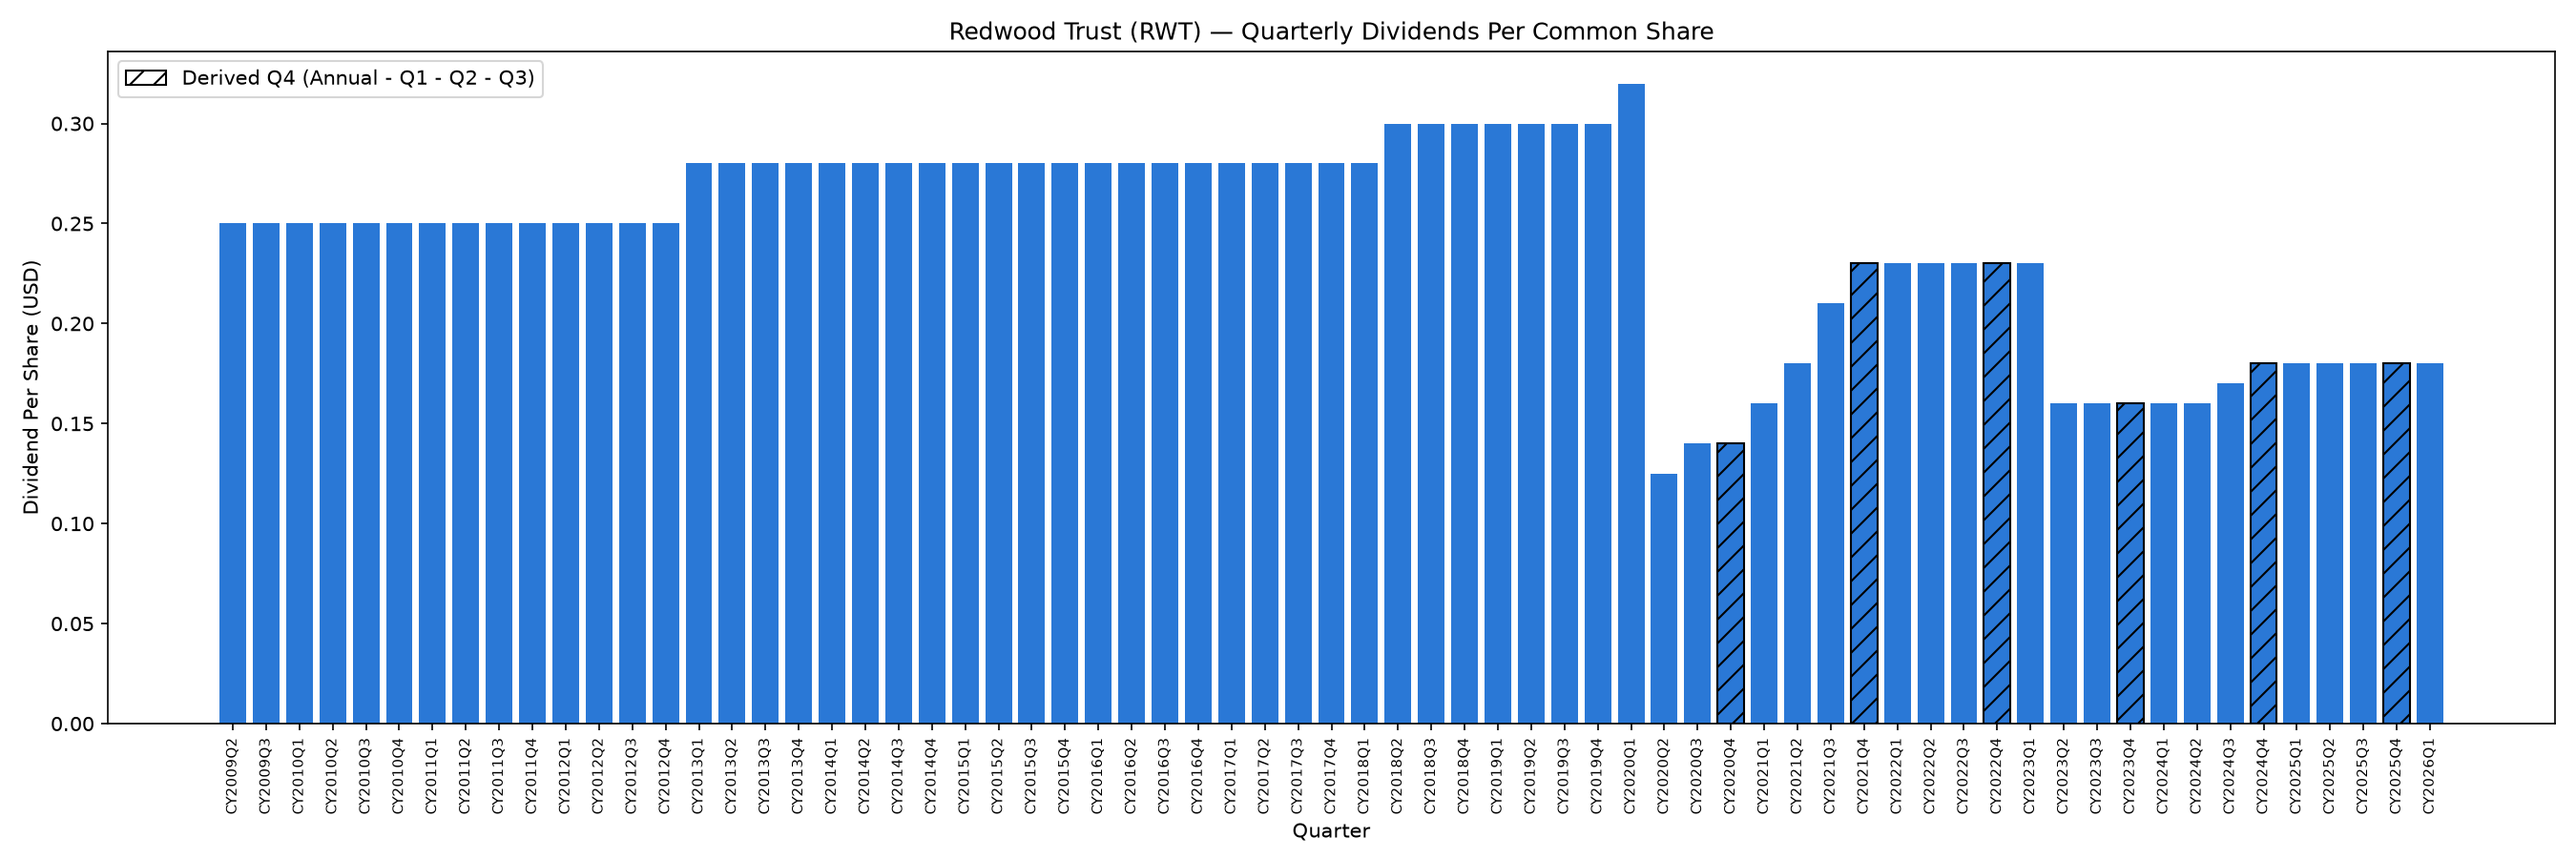
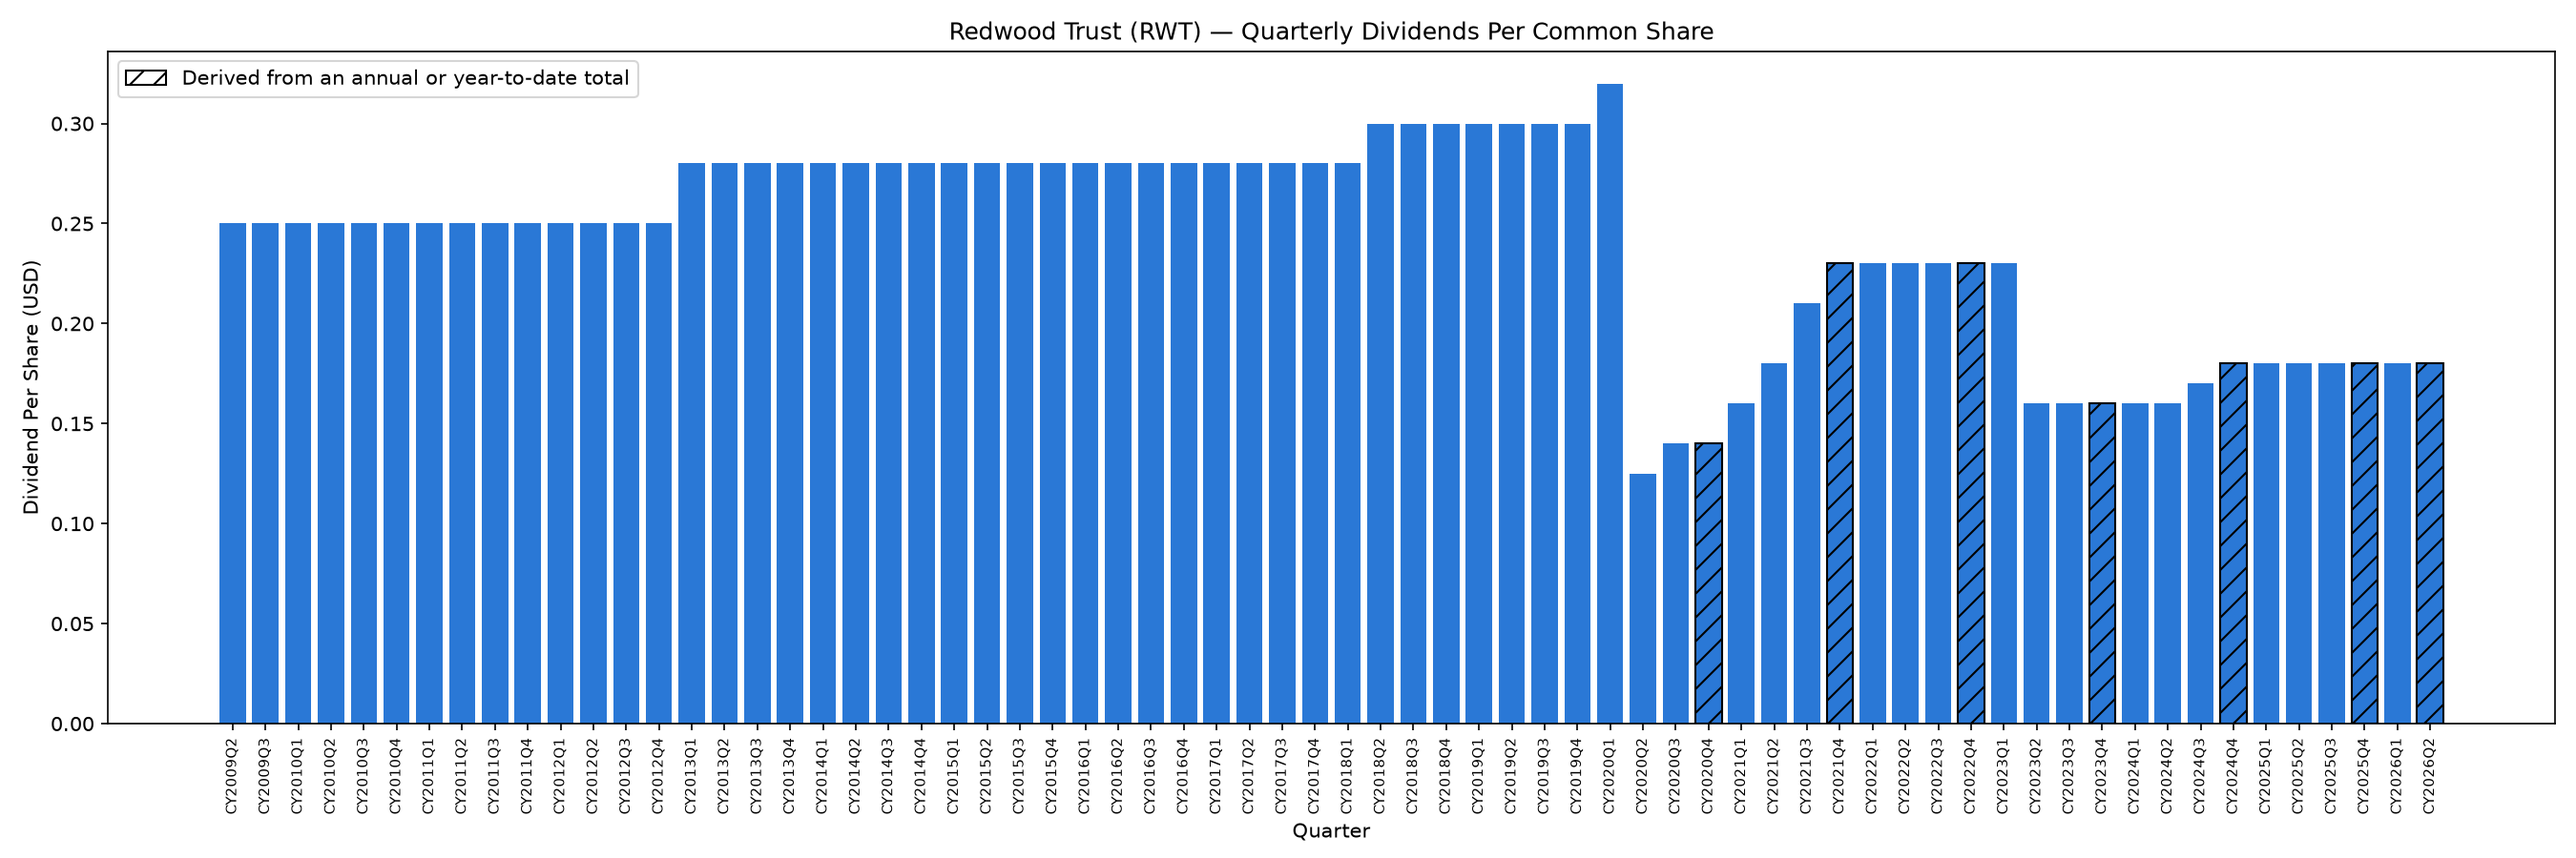
Bring the Q2 dividend to the dashboard and correct its BVPS claim
get_company_facts.py now backs a quarter tagged only as year-to-date out of
the six- or nine-month figure, as the ingest engine does since edbd166, so
the dividend CSV and Exhibit 4 reach CY2026Q2 ($0.18). The dividends fixture
is updated deliberately: its only change is that one added row, tagged as
derived. The chart legend now covers both kinds of derived bar.

The dashboard said book value per share had fallen five quarters straight.
It rose by under a cent in CY2025Q4 ($7.3534 to $7.3571), so it now reads
down in five of the last six quarters.

Adds a "Since the quarter closed" section from filings after the Q2 10-Q:
the Q3 dividend, the 2030 convertible notes and 2027 note buyback, the 9%
holder's Schedule 13D, and the 3 November results date.

Changed region(s): [[0.0933, 0.0933, 0.9644, 0.9644], [0.0933, 0.0622, 0.2489, 0.1244]]

diff --git a/rwt_dashboard_template.html b/rwt_dashboard_template.html
@@ -467,7 +467,7 @@
             <td class="num">$7.12</td>
             <td class="num now neg">$6.90</td>
             <td class="num neg">−3.1%</td>
-            <td class="gloss"><span class="chip watch">Watch</span><br>What each share would be worth if everything were sold and every debt repaid. An all-time low, and the fifth straight quarterly decline.</td>
+            <td class="gloss"><span class="chip watch">Watch</span><br>What each share would be worth if everything were sold and every debt repaid. An all-time low, and down in five of the last six quarters. The one rise, in Q4 2025, was less than a cent.</td>
           </tr>
           <tr>
             <td class="kpi-name">Net interest income</td>
@@ -493,9 +493,9 @@
           <tr>
             <td class="kpi-name">Dividend / share</td>
             <td class="num">$0.18</td>
-            <td class="num now">n/a</td>
-            <td class="num">—</td>
-            <td class="gloss"><span class="chip steady">Not yet framed</span><br>Held flat at $0.18 for the last several quarters. The SEC has not yet tagged a standalone Q2 value, so none can be derived.</td>
+            <td class="num now">$0.18</td>
+            <td class="num">0.0%</td>
+            <td class="gloss"><span class="chip steady">Held</span><br>Cash paid per share. The Q2 10-Q tagged only the six-month total ($0.36), so Q2 is that less Q1. The September 8-K confirms it: Q3 was declared at $0.18, "unchanged from the second quarter".</td>
           </tr>
           <tr>
             <td class="kpi-name">Total assets</td>
@@ -538,6 +538,49 @@
             <td class="num now">$11.0M</td>
             <td class="num neg">+152%</td>
             <td class="gloss"><span class="chip context">Context needed</span><br>Money set aside for expected credit losses. The sharpest move in the dataset, but it traces to a single asset. See below.</td>
+          </tr>
+        </tbody>
+      </table>
+    </div>
+  </section>
+
+  <section>
+    <div class="sec-head">
+      <h2>Since the quarter closed</h2>
+      <span class="rule-note">8-Ks and a 13D · to 2026-10-13</span>
+    </div>
+
+    <p class="measure">None of this is in the figures above, which stop at 30 June. It comes from filings made since the Q2 10-Q, and the Q3 10-Q will show its effect.</p>
+
+    <div class="scroller">
+      <table class="ledger">
+        <thead>
+          <tr>
+            <th>Filed</th>
+            <th style="text-align:left">Filing</th>
+            <th style="text-align:left">What it says</th>
+          </tr>
+        </thead>
+        <tbody>
+          <tr>
+            <td class="num" style="text-align:left">2026-09-10</td>
+            <td class="kpi-name">8-K</td>
+            <td class="gloss"><span class="chip steady">Dividend</span><br>Q3 common dividend declared at $0.18 a share, unchanged. The company calls it its 109th consecutive quarterly dividend.</td>
+          </tr>
+          <tr>
+            <td class="num" style="text-align:left">2026-09-15</td>
+            <td class="kpi-name">8-K</td>
+            <td class="gloss"><span class="chip improve">Refinancing</span><br>Sold $185M of 7.00% convertible notes due 2030. About $129M went to buying back roughly $124M of its 7.75% notes due 2027, and $20M to buying back 5.5M shares. This pushes a 2027 maturity out to 2030 at a lower rate. The $4.90 conversion price, a 35% premium, puts the share price near <strong>$3.63</strong>, about half the $6.90 book value.</td>
+          </tr>
+          <tr>
+            <td class="num" style="text-align:left">2026-09-25</td>
+            <td class="kpi-name">Schedule 13D</td>
+            <td class="gloss"><span class="chip context">New large holder</span><br>Howard Amster and related entities reported about 9% of the shares. A 13D, unlike a passive 13G, keeps open the option of pressing management. The filing lists talking to the board, board composition, and possible sales of the company or its businesses. That wording is standard, and no proposal has been made.</td>
+          </tr>
+          <tr>
+            <td class="num" style="text-align:left">2026-10-13</td>
+            <td class="kpi-name">8-K</td>
+            <td class="gloss"><span class="chip steady">Q3 preview</span><br>Q3 results due 3 November after the close. The CEO says Redwood distributed more than $8B of loans in the quarter, through what he calls the sharpest quarterly selloff in the 10-year Treasury yield in 32 years, and ended September with about $190M of cash.</td>
           </tr>
         </tbody>
       </table>
@@ -618,7 +661,7 @@ Consolidated          <b>-1.1M</b></div>
           </tr>
           <tr>
             <td class="trigger">Equity stabilises and quarterly losses cross into profit</td>
-            <td class="gloss"><span class="chip improve">Confirming</span><br>The repositioning working as intended. Book value per share has fallen for five straight quarters; arresting that is the clearest evidence the strategy is paying.</td>
+            <td class="gloss"><span class="chip improve">Confirming</span><br>The repositioning working as intended. Book value per share has fallen in five of the last six quarters; arresting that is the clearest evidence the strategy is paying.</td>
           </tr>
         </tbody>
       </table>
@@ -669,10 +712,10 @@ Consolidated          <b>-1.1M</b></div>
         <figcaption class="ex-label">
           <span class="ex-num">Exhibit 4</span>
           <span class="ex-title">Dividends declared per share</span>
-          <span class="ex-value">CY2026Q1 · $0.18</span>
+          <span class="ex-value">CY2026Q2 · $0.18</span>
         </figcaption>
         <img src="%%IMG:rwt_dividends_chart.png%%" alt="Bar chart of Redwood Trust quarterly dividends declared per common share from 2010 to 2026.">
-        <figcaption>Held flat at $0.18 across recent quarters. The SEC tagged Q4 directly through 2019; from 2020 onward those bars are derived from the annual figure and shown hatched. Q2 2026 is not yet framed.</figcaption>
+        <figcaption>Held flat at $0.18 across recent quarters. The SEC tagged Q4 directly through 2019; from 2020 onward those bars are derived from the annual figure and shown hatched. Q2 2026 is hatched too: its 10-Q tagged only the six-month total, so it is derived as six months less Q1.</figcaption>
       </figure>
 
       <figure>

diff --git a/get_company_facts.py b/get_company_facts.py
@@ -165,10 +165,15 @@ def extract_quarterly_duration_kpi(concept_name, value_key, label, csv_stem,
 
     # Derive missing Q4 values as Annual - (Q1 + Q2 + Q3), for any year where the
     # annual figure and all three reported quarters are available.
-    derived_q4 = facts.derive_q4(by_frame, quarterly, value_key)
+    # A Q2 or Q3 tagged only as year-to-date is backed out first, so its year
+    # can still have Q4 derived. Only the _complete CSV gets these; the
+    # reported-only CSV above stays reported-only.
+    derived_ytd = facts.derive_from_year_to_date(records, quarterly, value_key)
+    with_ytd = {**quarterly, **derived_ytd}
+    derived_q4 = facts.derive_q4(by_frame, with_ytd, value_key)
 
     # Merge reported + derived, tag the source so you always know which is which
-    all_quarters = facts.merge_reported_and_derived(quarterly, derived_q4, value_key)
+    all_quarters = facts.merge_reported_and_derived(with_ytd, derived_q4, value_key)
 
     sorted_all_quarters = sorted(all_quarters.values(), key=lambda x: x["quarter"])
 

diff --git a/plot_dividends.py b/plot_dividends.py
@@ -40,7 +40,7 @@ ax.tick_params(axis="x", rotation=90, labelsize=7)
 
 # Legend: hatch encodes reported vs derived (no color legend needed, single hue)
 legend_handles = [
-    mpatches.Patch(facecolor="white", edgecolor="black", hatch="//", label="Derived Q4 (Annual - Q1 - Q2 - Q3)"),
+    mpatches.Patch(facecolor="white", edgecolor="black", hatch="//", label="Derived from an annual or year-to-date total"),
 ]
 ax.legend(handles=legend_handles, loc="upper left")
 
